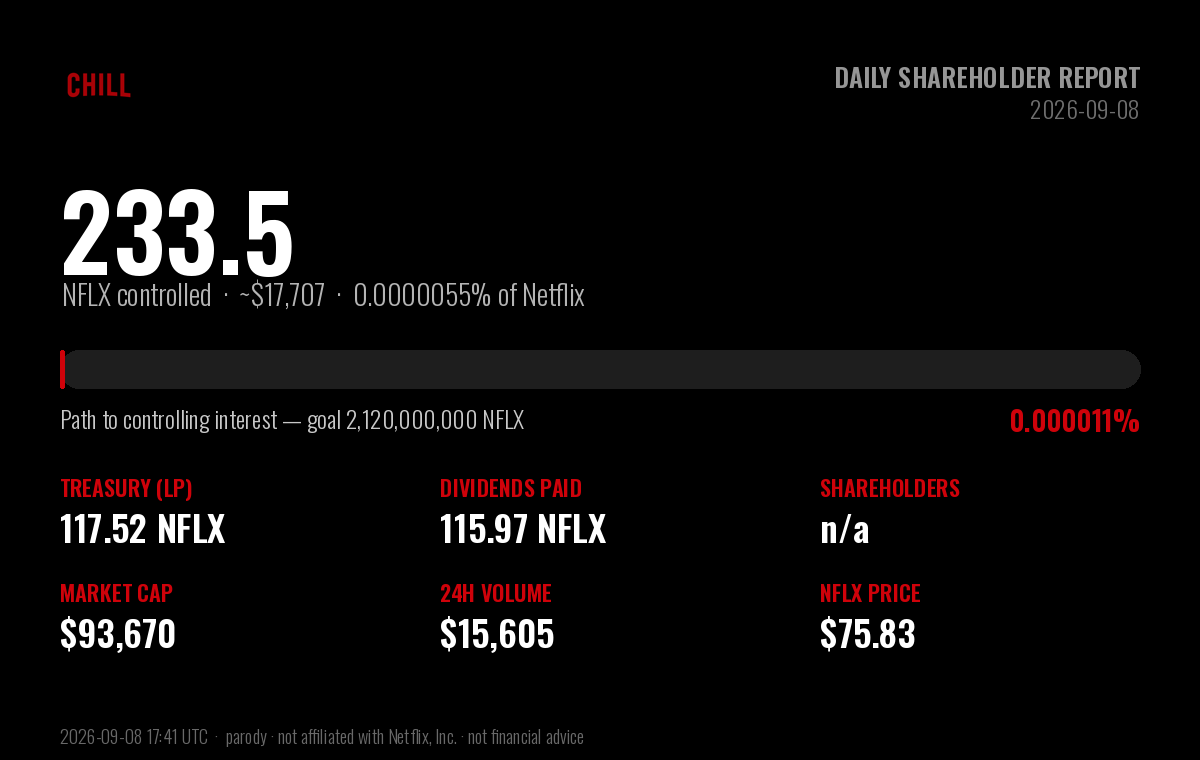
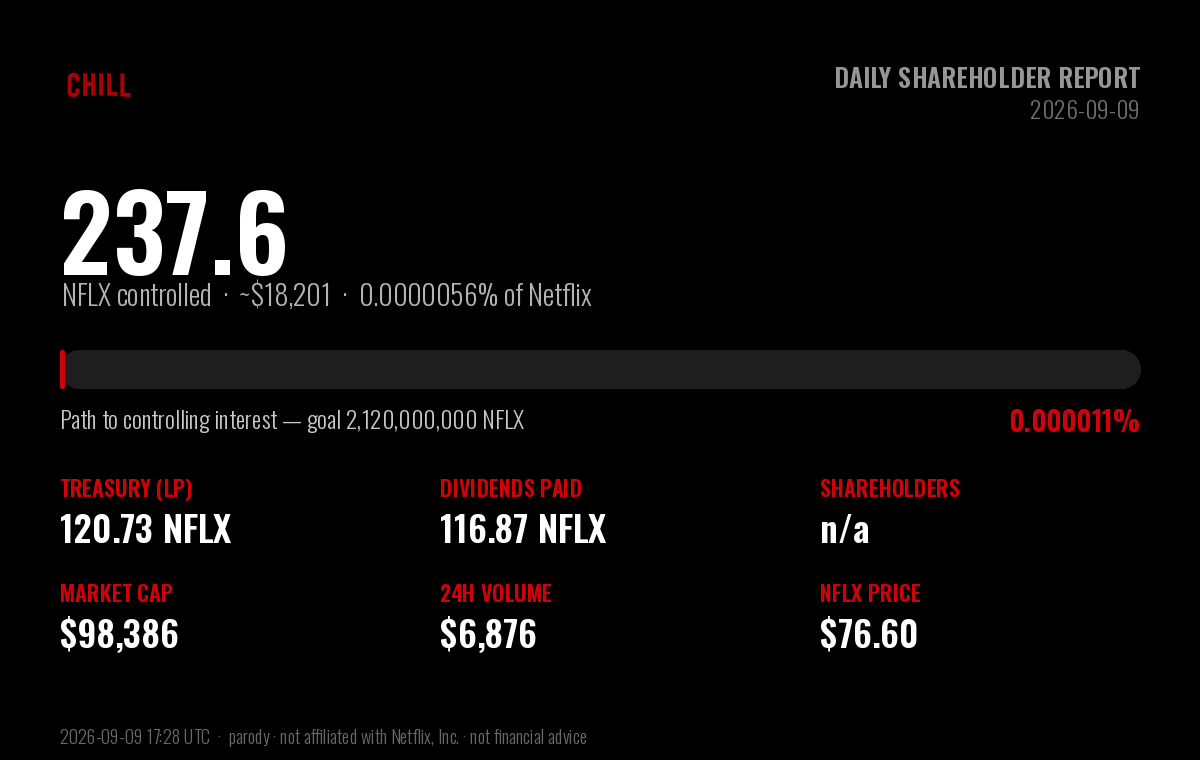
chore: daily $CHILL shareholder report (2026-09-09)

diff --git a/daily-holder-report/README.md b/daily-holder-report/README.md
@@ -1,6 +1,6 @@
 # $CHILL — Daily Shareholder Report
 
-### Netflix and Chill · Report to Shareholders · 2026-09-08
+### Netflix and Chill · Report to Shareholders · 2026-09-09
 
 > **Corporate objective:** acquire a controlling interest in Netflix (NFLX).
 > Netflix has **4,220,000,000** shares outstanding; a majority
@@ -13,53 +13,53 @@
 
 | Metric | Value |
 |---|---|
-| **NFLX under $CHILL control** | **233.49 NFLX** (~$17,707) |
-| Stake in Netflix | 0.000005533% of shares outstanding |
-| Progress to controlling interest | 0.0000110% of 2,120,000,000 |
-| Shares remaining to majority | 2,119,999,767 NFLX |
+| **NFLX under $CHILL control** | **237.60 NFLX** (~$18,201) |
+| Stake in Netflix | 0.000005630% of shares outstanding |
+| Progress to controlling interest | 0.0000112% of 2,120,000,000 |
+| Shares remaining to majority | 2,119,999,762 NFLX |
 
 ## Balance sheet — NFLX holdings
 
 | Holding | NFLX | USD |
 |---|---|---|
-| Treasury (protocol-owned liquidity) | 117.52 | $8,912 |
-| Dividends distributed to shareholders | 115.97 | $8,794 |
-| **Total NFLX controlled** | **233.49** | **$17,707** |
+| Treasury (protocol-owned liquidity) | 120.73 | $9,249 |
+| Dividends distributed to shareholders | 116.87 | $8,953 |
+| **Total NFLX controlled** | **237.60** | **$18,201** |
 
 ## Last 24 hours
 
 | Metric | Value |
 |---|---|
-| Trading volume | 205.78 NFLX (~$15,605) |
-| Net NFLX accumulated | -38.98 NFLX |
-| Dividends generated | 2.0578 NFLX |
-| Transactions | 92 (50 buys / 42 sells) |
-| $CHILL price change | -19.4% |
+| Trading volume | 89.76 NFLX (~$6,876) |
+| Net NFLX accumulated | 3.21 NFLX |
+| Dividends generated | 0.8976 NFLX |
+| Transactions | 45 (24 buys / 21 sells) |
+| $CHILL price change | +1.4% |
 
 ## Shareholder & market data
 
 | Metric | Value |
 |---|---|
 | Shareholders of record | n/a |
-| Lifetime unique participants | 1764 |
+| Lifetime unique participants | 1771 |
 | Shares outstanding ($CHILL) | 1,000,000,000 |
-| Market capitalization | $93,670 |
-| $CHILL price | $0.00009367 |
-| NFLX price | $75.83 |
-| Lifetime volume | 11,597.13 NFLX (~$879,448) |
-| Lifetime transactions | 8,304 (4,660 buys / 3,644 sells) |
-| Days since IPO (launch) | 51 |
+| Market capitalization | $98,386 |
+| $CHILL price | $0.00009839 |
+| NFLX price | $76.60 |
+| Lifetime volume | 11,686.89 NFLX (~$895,265) |
+| Lifetime transactions | 8,349 (4,684 buys / 3,665 sells) |
+| Days since IPO (launch) | 52 |
 
 ## Per-share metrics
 
 | Metric | Value |
 |---|---|
-| NFLX backing per 1M $CHILL | 0.233493 NFLX |
-| Dividends per 1M $CHILL | 0.115971 NFLX |
+| NFLX backing per 1M $CHILL | 0.237603 NFLX |
+| Dividends per 1M $CHILL | 0.116869 NFLX |
 
 ---
 
-*Report generated 2026-09-08 17:41 UTC · block 57,876,832 · data via the Sentry-Robinhood
+*Report generated 2026-09-09 17:28 UTC · block 58,725,371 · data via the Sentry-Robinhood
 subgraph and Robinhood Chain explorer.*
 
 **Disclaimer:** $CHILL is an independent, community-driven **parody** token. It is
